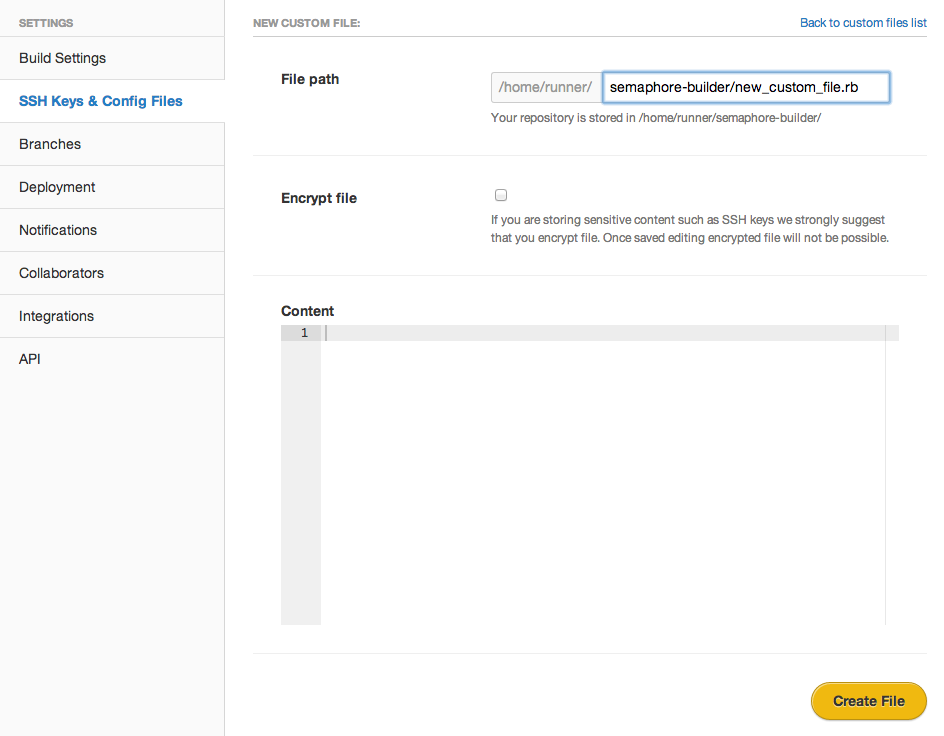
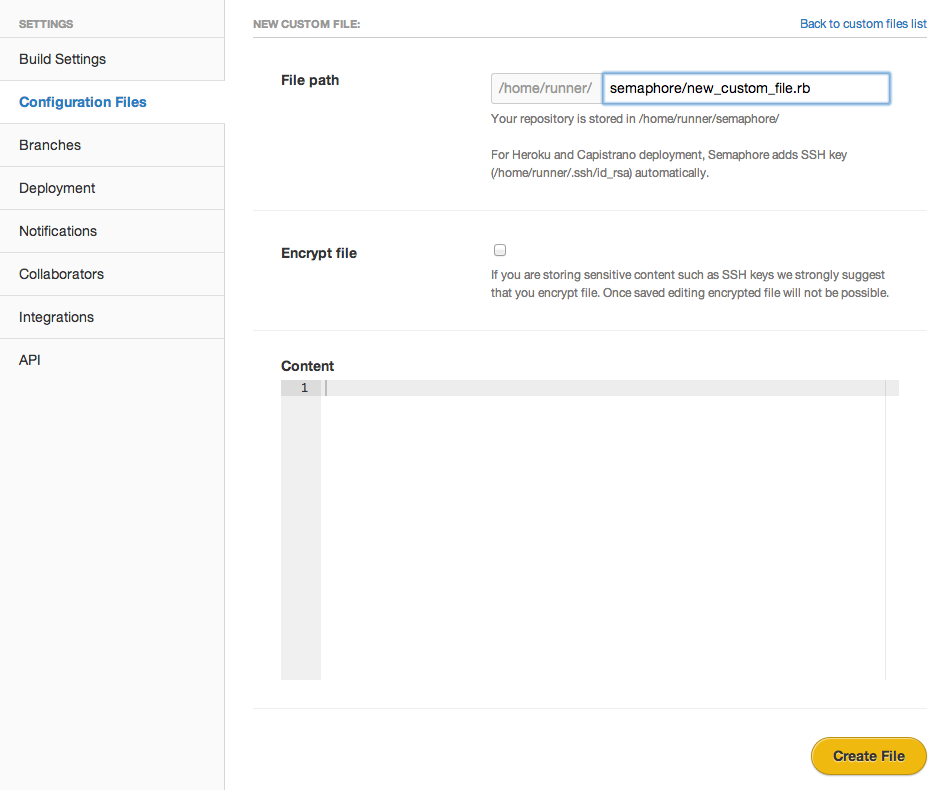
Images and text updated for custom file

diff --git a/_site/how-to-securely-add-custom-file/index.html b/_site/how-to-securely-add-custom-file/index.html
@@ -49,12 +49,12 @@
         </header>
 
         <section class="body">
-          <p>For your new custom file you need to specify a target file path. For instance, if you have a project &#8220;semaphore_builder&#8221; and you want to add a new custom file to your project&#8217;s config directory, your file path should look like the one on the screenshot below:</p>
+          <p>For your new custom file you need to specify a target file path. For instance, if you have a project &#8220;semaphore&#8221; and you want to add a new custom file to your project&#8217;s config directory, your file path should look like the one on the screenshot below:</p>
 <img alt='New custom file' src='/assets/images/new-custom-file.png' style='width: 100%;' />
 <p>Content of the new custom file can be entered in content text area.</p>
 
 <p>For greater security, the content of your custom files can be encrypted. We strongly recommend that you select this option if you are adding sensitive content such as SSH keys. Once encrypted, encrypted file cannot be edited. The identity of your file can determined by an MD5 hash.</p>
-<img alt='Custom file list' src='/assets/images/custom-file-list.png' />
+<img alt='Custom file list' src='/assets/images/custom-file-list.png' style='width: 100%;' />
         </section>
 
       </article>

diff --git a/how-to-securely-add-custom-file.md b/how-to-securely-add-custom-file.md
@@ -3,7 +3,7 @@ layout: default
 title: How to securely add custom file
 ---
 
-For your new custom file you need to specify a target file path. For instance, if you have a project "semaphore\_builder" and you want to add a new custom file to your project's config directory, your file path should look like the one on the screenshot below:
+For your new custom file you need to specify a target file path. For instance, if you have a project "semaphore" and you want to add a new custom file to your project's config directory, your file path should look like the one on the screenshot below:
 
 <img src="/assets/images/new-custom-file.png" alt="New custom file" style="width: 100%;"/>
 
@@ -11,4 +11,4 @@ Content of the new custom file can be entered in content text area.
 
 For greater security, the content of your custom files can be encrypted. We strongly recommend that you select this option if you are adding sensitive content such as SSH keys. Once encrypted, encrypted file cannot be edited. The identity of your file can determined by an MD5 hash.
 
-<img src="/assets/images/custom-file-list.png" alt="Custom file list" />
+<img src="/assets/images/custom-file-list.png" alt="Custom file list" style="width: 100%;"/>
